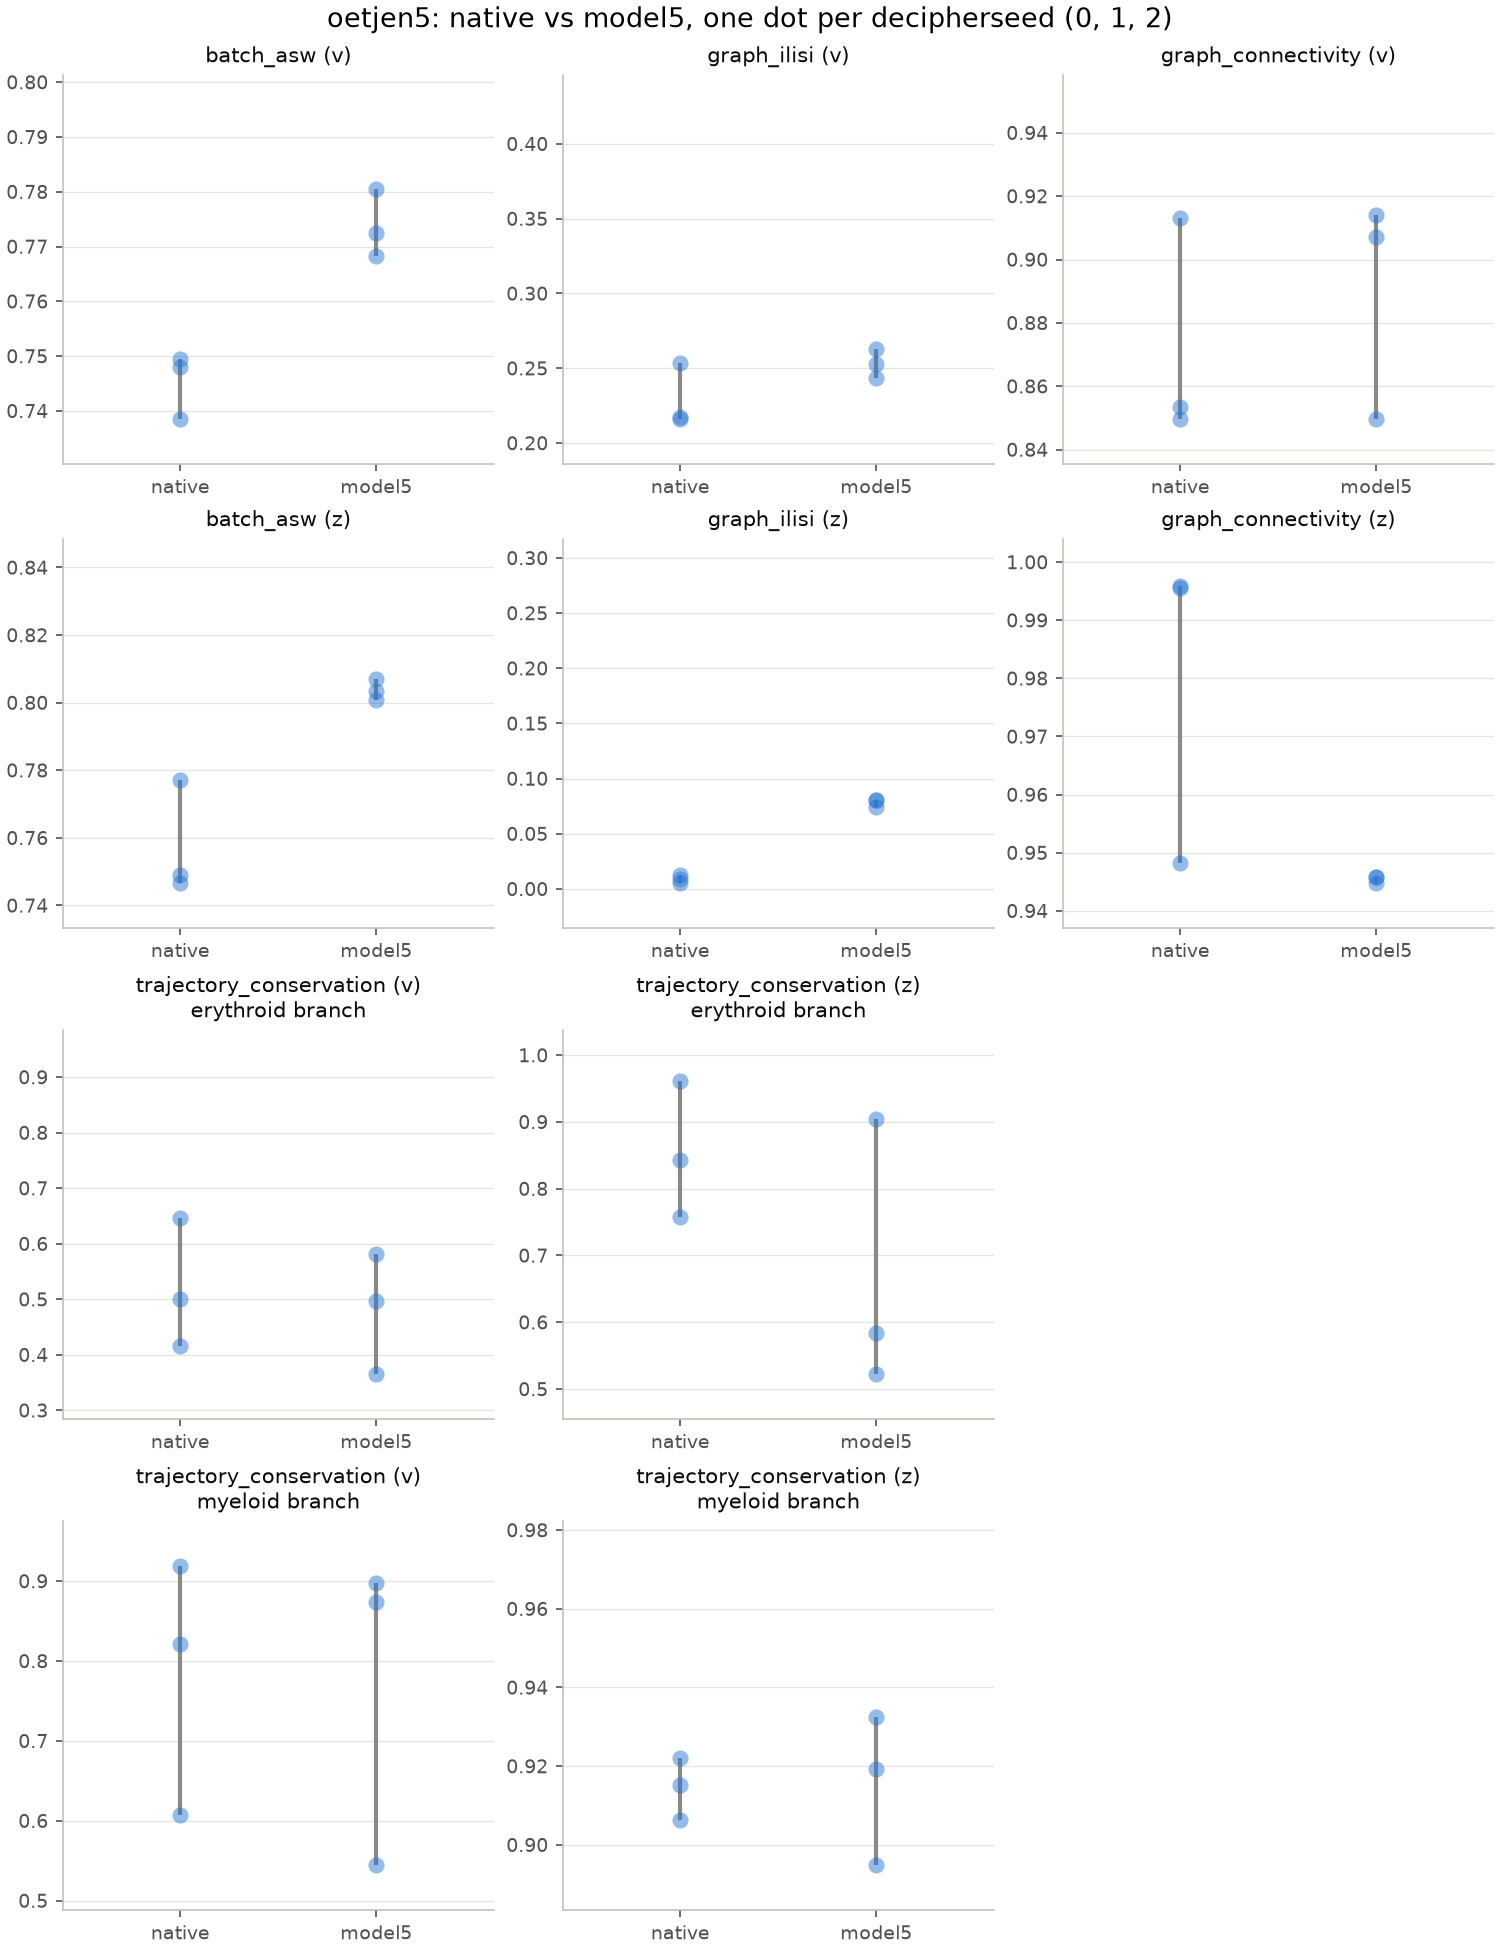
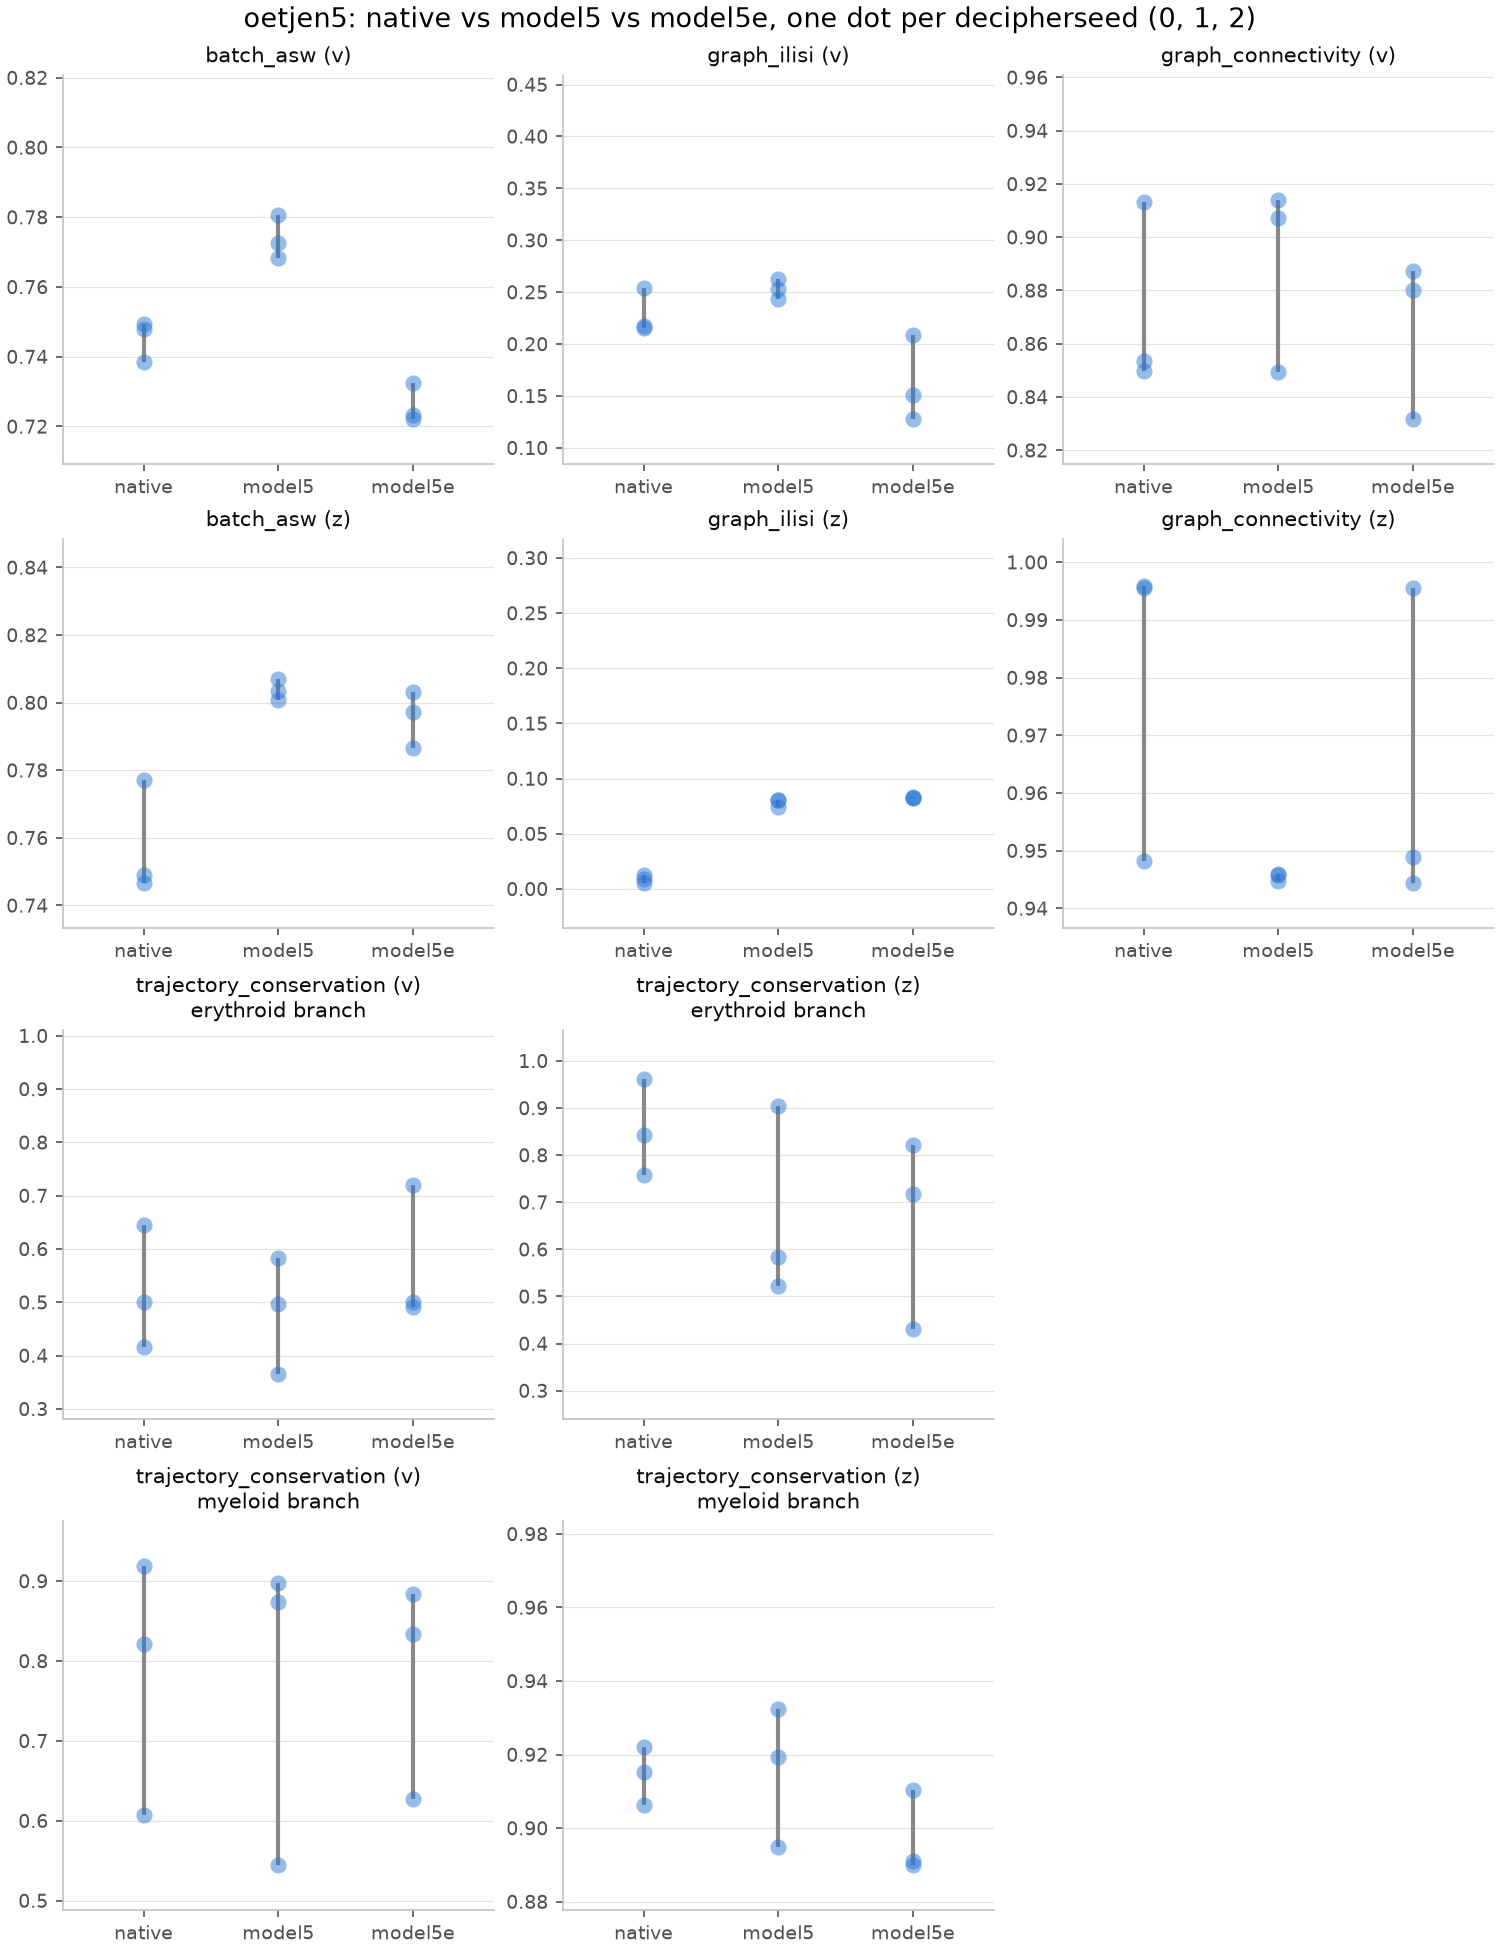
oetjen-model5e P04: model5e series in the Oetjen metric lollipops
What: lollipop script gets the two m5e folders and "model5e" in MODELS (three lollipops per panel), docstring/title updated; both PNGs regenerated.
Verified: script run from repo root clean; pre-commit (ruff, black, autoflake) passes; both PNGs viewed, three readable series per panel, no label overlap. No tests reference the script.
Report: Claude Files/plans/1016_oetjen-model5e-agentplan/P04_lollipops-report.md

Claude-Session: https://claude.ai/code/session_01LncwfrrGWbSr1hxQr6XrVZ

diff --git a/Real Data/Oetjen Bone Marrow/1016_oetjen_metric_lollipops.py b/Real Data/Oetjen Bone Marrow/1016_oetjen_metric_lollipops.py
@@ -1,9 +1,9 @@
-"""Native vs model5 metric lollipops for oetjen5 and oetjen6, one PNG per dataset.
+"""Native vs model5 vs model5e metric lollipops for oetjen5 and oetjen6, one PNG per dataset.
 
-Reads ``<run dir>/csv/seed<k>_metrics.csv`` (k = 0, 1, 2) from each dataset's native and m5
+Reads ``<run dir>/csv/seed<k>_metrics.csv`` (k = 0, 1, 2) from each dataset's native, m5 and m5e
 folders. One panel per (space, metric, branch) row on v and z (decipher_time_conservation left
 out). Each panel has its own y axis, shared with the same panel in the other dataset's PNG. A panel
-has two vertical lollipops, native and model5: the stem runs from the lowest to the highest
+has three vertical lollipops, native, model5 and model5e: the stem runs from the lowest to the highest
 seed and the three seeds are 50%-transparent circles on it, all one colour, so overlapping seeds
 show as a darker dot. Rows: v batch, z batch, erythroid branch, myeloid branch.
 
@@ -22,10 +22,10 @@ import pandas as pd
 
 HERE = Path(__file__).resolve().parent
 DATASETS = {
-    "oetjen5": ("1016_oetjen5_native", "1016_oetjen5_m5"),
-    "oetjen6": ("1015_oetjen6_native", "1015_oetjen6_m5"),
+    "oetjen5": ("1016_oetjen5_native", "1016_oetjen5_m5", "1016_oetjen5_m5e"),
+    "oetjen6": ("1015_oetjen6_native", "1015_oetjen6_m5", "1016_oetjen6_m5e"),
 }
-MODELS = ["native", "model5"]
+MODELS = ["native", "model5", "model5e"]
 SEEDS = [0, 1, 2]
 DOT = "#2a78d6"
 STEM = "#8a8984"
@@ -98,7 +98,9 @@ def plot(dataset: str, df: pd.DataFrame, limits: dict) -> Path:
             ax.set_visible(False)
         for ax, key in zip(row, keys):
             panel(ax, df, key, limits[key])
-    fig.suptitle(f"{dataset}: native vs model5, one dot per decipherseed (0, 1, 2)", fontsize=13)
+    fig.suptitle(
+        f"{dataset}: native vs model5 vs model5e, one dot per decipherseed (0, 1, 2)", fontsize=13
+    )
     out = HERE / f"1016_{dataset}_metric_lollipops.png"
     fig.savefig(out, dpi=150, facecolor="white")
     plt.close(fig)
